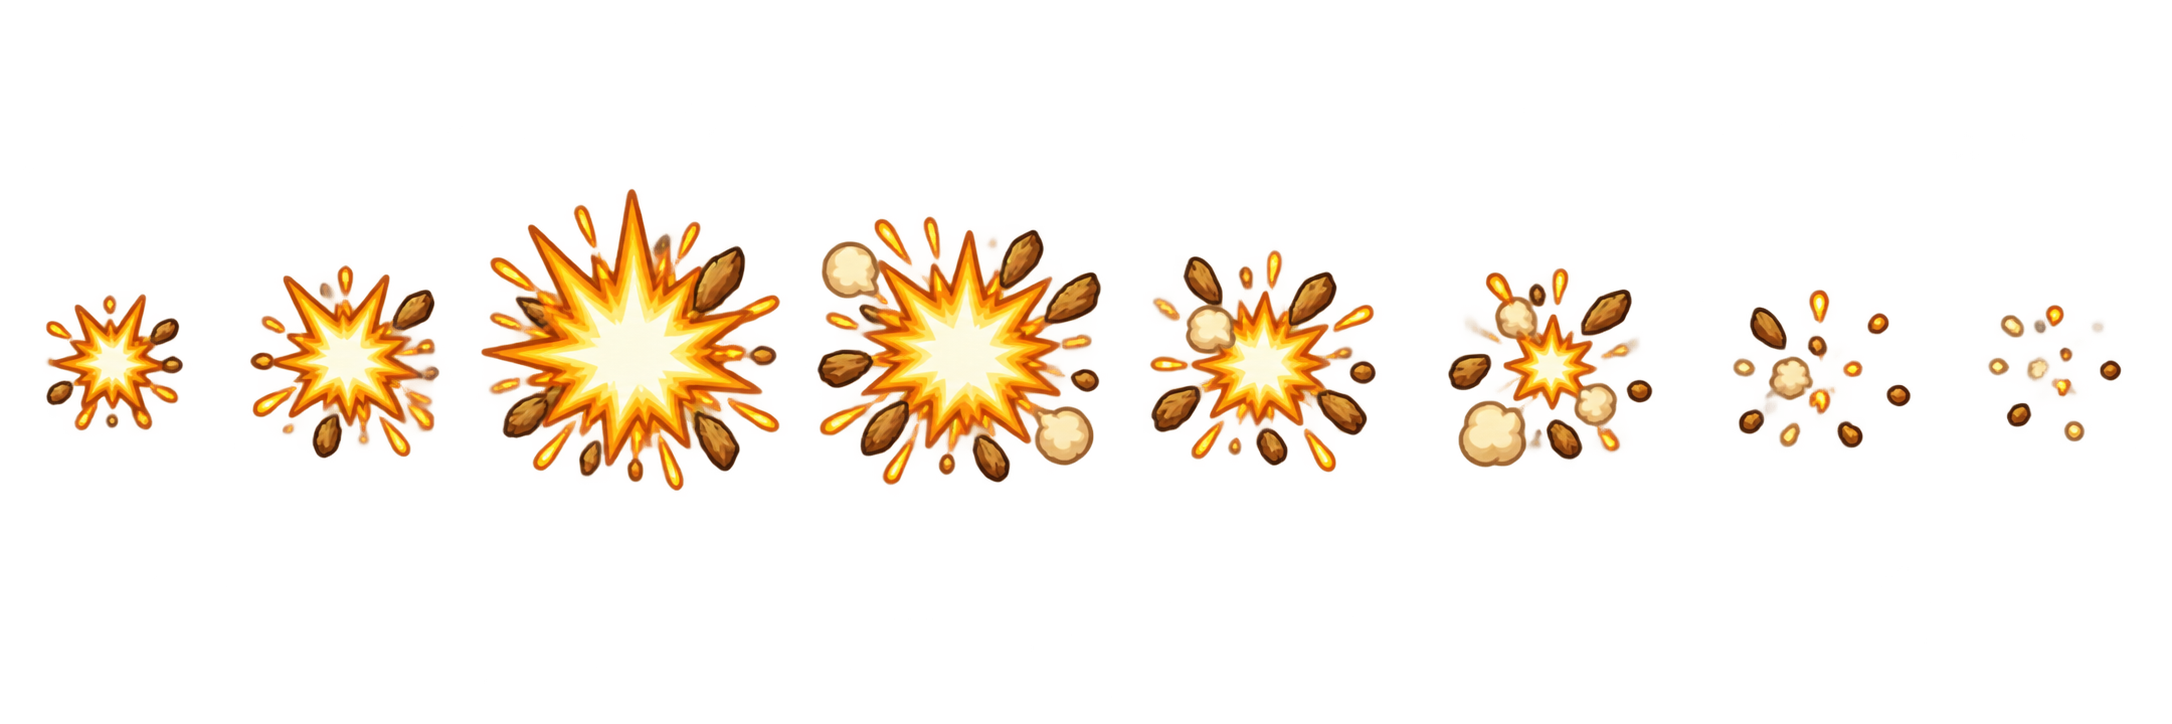
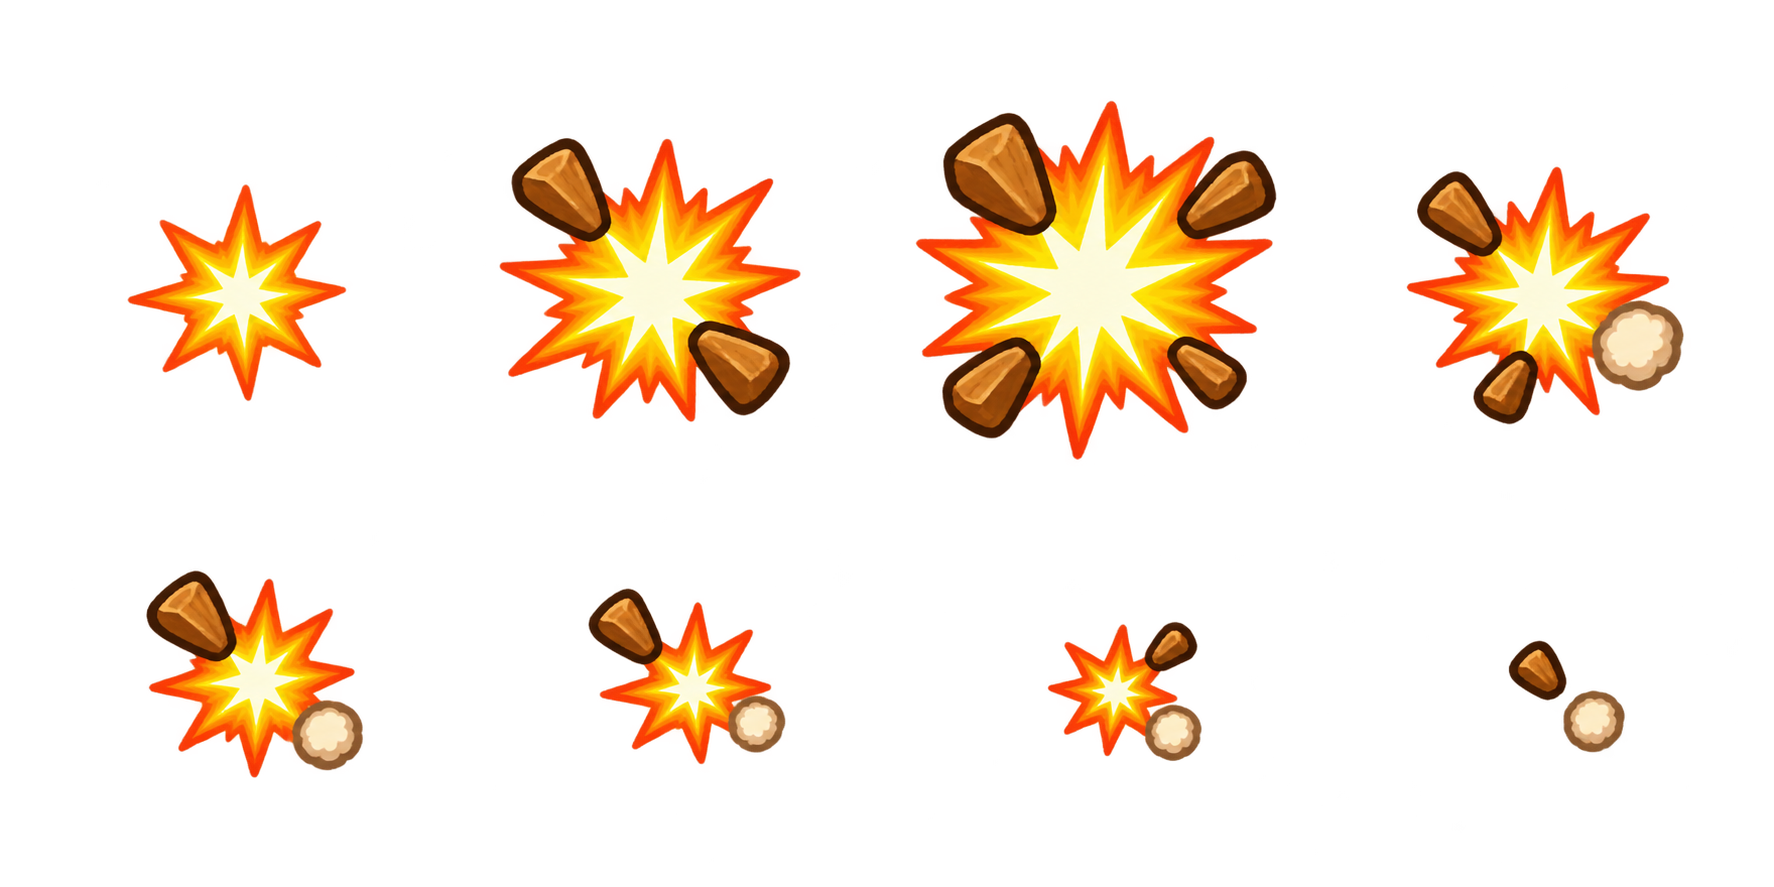
feat: 타격 이펙트를 더 단순한 버전으로 교체 + slice.py 여러 행 시트 지원
첫 타격 이펙트는 자잘한 파편이 많아 번잡했다. 시안 3개(A: 기존,
B: 파편을 굵고 적게, C: 파편 2~4개)를 디버그 키로 게임 안에서 비교해서
가장 단순한 C 를 골랐고, 나머지 시안과 비교용 코드는 남기지 않았다.

이펙트 교체
- assets/_source/PunchEffect.png 를 C 원본으로 바꾸고 다시 잘랐다
  (assets/effects/punch_effect.png, 8 x 379x403). 씬·스크립트·스폰
  경로는 그대로 - 표준 이름을 유지해서 GameRoot 는 바뀐 게 없다.
- C 원본은 A 보다 약 20% 크게 그려져 있어 PunchEffect.tscn 의 scale 을
  0.22 -> 0.19 로 줄여 화면 크기를 비슷하게 맞췄다.

slice.py - 여러 행 시트
- C 원본이 2행 x 4열이었다. 매니페스트에 "rows": k 를 주면 행 띠를 먼저
  찾고(좁은 틈부터 합쳐 k 개로) 띠마다 열 덩어리를 frames/k 개로 모아,
  읽는 순서(왼->오, 위->아래)로 가로 1행 시트를 만든다(grid_boxes).
- slice_strip_centroid 는 (x0, y0, x1, y1) 상자 목록을 받게 바꿨다 -
  한 행 시트도 같은 경로를 탄다.
- rows > 1 은 "align": "centroid" 와 같이만 받는다(행을 넘나들면 "칸 기준
  상대 위치"가 정의되지 않으므로).
- 기존 시트(원숭이·나무·바나나)는 --dry-run 으로 산출 크기가 그대로인 것을
  확인했다.

diff --git a/tools/assetgen/slice.py b/tools/assetgen/slice.py
@@ -59,19 +59,46 @@ def merge_runs(cols, n):
     return cols
 
 
-def slice_strip_centroid(spec, im, mask, cols, y0, y1, dry):
+def grid_boxes(spec, mask):
+    """여러 행으로 받은 시트("rows": k)의 프레임 상자를 읽는 순서(왼→오, 위→아래)로.
+
+    행 띠를 먼저 찾고(좁은 틈부터 합쳐 k 개로), 띠마다 열 덩어리를 frames/k 개로
+    모은다. 프레임 위치를 숫자로 박지 않는다는 원칙은 한 행일 때와 같다.
+    """
+    n, rows = spec["frames"], spec["rows"]
+    if n % rows:
+        raise ValueError(f"frames {n} 이 rows {rows} 로 나눠떨어지지 않는다")
+    per_row = n // rows
+
+    bands = merge_runs(runs(mask.any(1), MIN_RUN), rows)
+    if len(bands) != rows:
+        raise ValueError(f"행 띠 {len(bands)}개 != rows {rows}")
+
+    boxes = []
+    for y0, y1 in bands:
+        cols = merge_runs(runs(mask[y0:y1 + 1].any(0), MIN_RUN), per_row)
+        if len(cols) != per_row:
+            raise ValueError(f"y={y0}..{y1} 행: 덩어리 {len(cols)}개 != {per_row}개")
+        boxes += [(x0, y0, x1, y1) for x0, x1 in cols]
+    return boxes
+
+
+def slice_strip_centroid(spec, im, mask, boxes, dry):
     """프레임마다 알파 무게중심을 칸 가운데에 맞춰 균등 그리드로 다시 깐다.
 
     원숭이처럼 "몸이 제자리에 있고 팔만 움직이는" 시트는 칸 기준 상대 위치를
     보존해야 하지만(아래 slice_strip), **타격 이펙트는 모든 프레임이 한 점(맞은 자리)
     에서 터져야 한다.** 받은 시트는 프레임 중심이 칸마다 수십 px 씩 어긋나 있어서
     그대로 쓰면 폭발이 옆으로 떨며 번진다.
+
+    <paramref>boxes</paramref> 는 프레임마다 (x0, y0, x1, y1) - 원본이 여러 행이어도
+    산출은 가로 1행이다.
     """
     n, margin = spec["frames"], spec.get("margin", 8)
     alpha = np.array(im.getchannel("A"), dtype=np.float64)
 
     frames, centers = [], []
-    for x0, x1 in cols:
+    for x0, y0, x1, y1 in boxes:
         w = alpha[y0:y1 + 1, x0:x1 + 1] * mask[y0:y1 + 1, x0:x1 + 1]
         ys, xs = np.indices(w.shape)
         total = w.sum()
@@ -122,6 +149,14 @@ def slice_strip(spec, dry):
     im, mask = load(src)
     n, margin = spec["frames"], spec.get("margin", 8)
 
+    if spec.get("rows", 1) > 1:
+        # 여러 행 시트는 이펙트처럼 무게중심 정렬하는 것만 받는다 - 행을 넘나들면
+        # "칸 기준 상대 위치"가 정의되지 않는다.
+        if spec.get("align") != "centroid":
+            raise ValueError('rows > 1 은 "align": "centroid" 와 같이만 쓴다')
+        slice_strip_centroid(spec, im, mask, grid_boxes(spec, mask), dry)
+        return
+
     ys = runs(mask.any(1), MIN_RUN)
     if not ys:
         raise ValueError("알파가 비었다")
@@ -137,7 +172,7 @@ def slice_strip(spec, dry):
         cols = [(round(i * pitch), round((i + 1) * pitch) - 1) for i in range(n)]
 
     if spec.get("align") == "centroid":
-        slice_strip_centroid(spec, im, mask, cols, y0, y1, dry)
+        slice_strip_centroid(spec, im, mask, [(x0, y0, x1, y1) for x0, x1 in cols], dry)
         return
 
     pitch = im.width / n
